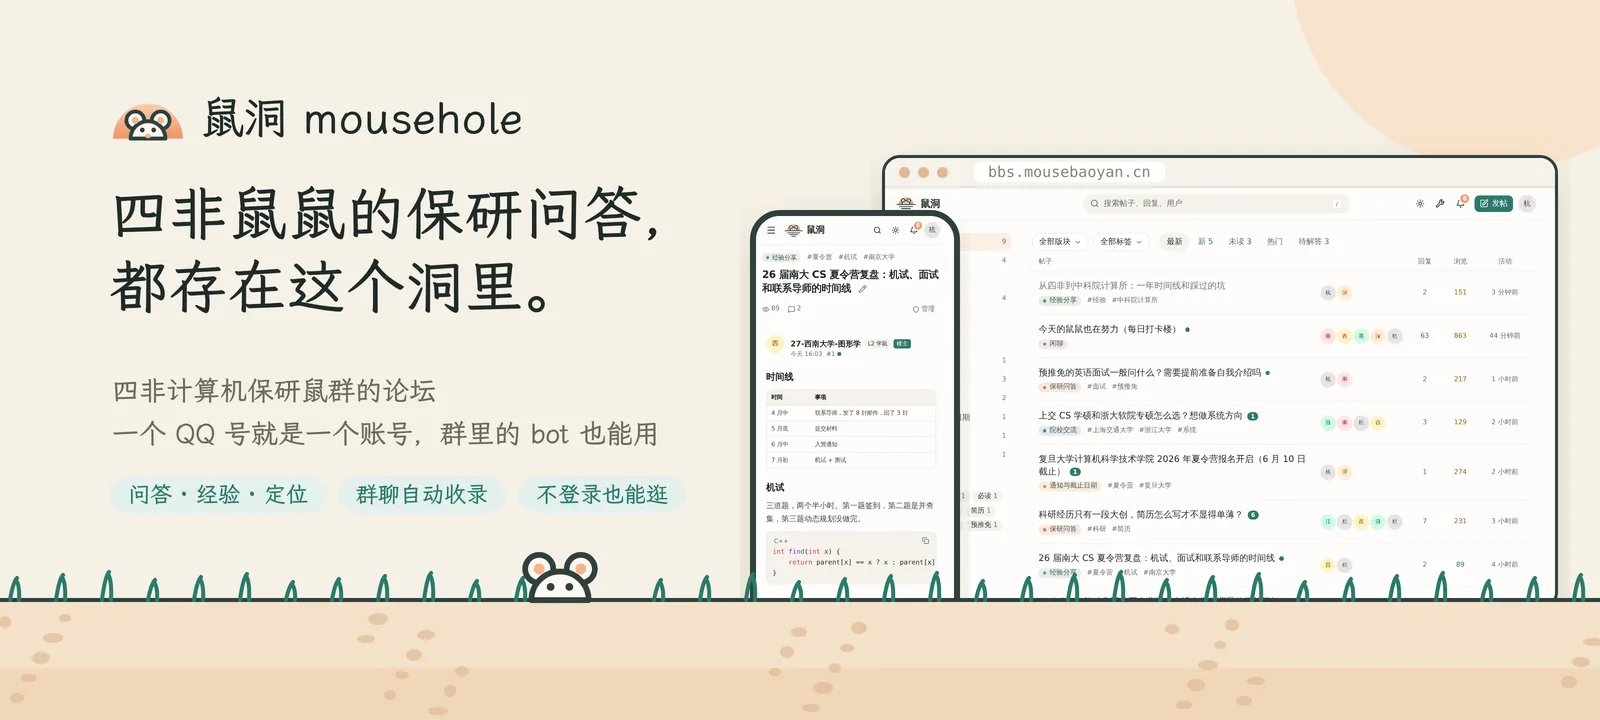
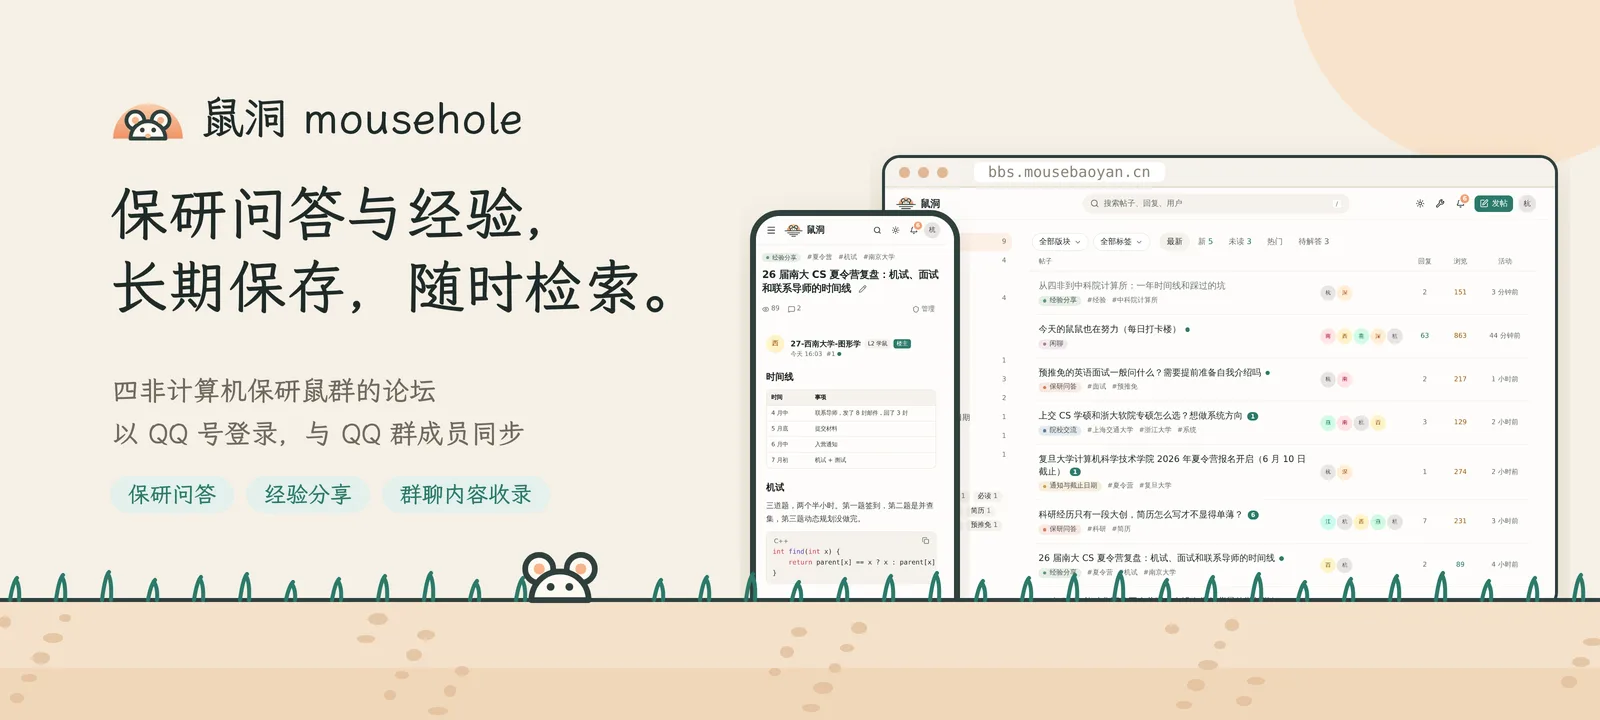
README 改用正式的文案 (#285)
原文案偏口语，"群的超集"这个说法也不准确：论坛内容并不回传到群里。

- 简介改为说明鼠洞解决的问题，"群的超集"改为"沉淀群聊内容"，并写明群里只推送提醒
- 功能表、截图说明、本地开发步骤和文档表的措辞改正式，去掉功能表里的表情符号
- 横幅的标题改为"保研问答与经验，长期保存，随时检索。"

diff --git a/README.md b/README.md
@@ -1,30 +1,30 @@
 <div align="center">
 
-<a href="https://bbs.mousebaoyan.cn"><img src="docs/images/banner.webp" alt="鼠洞：四非鼠鼠的保研问答，都存在这个洞里" width="100%"></a>
+<a href="https://bbs.mousebaoyan.cn"><img src="docs/images/banner.webp" alt="鼠洞：四非计算机保研鼠群的论坛" width="100%"></a>
 
 **四非计算机保研鼠群的论坛**
 
-一个 QQ 号就是一个账号，群里的 AstrBot 插件能做网页上能做的一切。
+以 QQ 号作为论坛账号，通过 AstrBot 插件与 QQ 群相连。
 
 [![CI](https://github.com/mousebaoyan/mousehole/actions/workflows/ci.yml/badge.svg)](https://github.com/mousebaoyan/mousehole/actions/workflows/ci.yml)
 [![版本](https://img.shields.io/github/v/tag/mousebaoyan/mousehole?label=%E7%89%88%E6%9C%AC&color=2b7a6b)](https://github.com/mousebaoyan/mousehole/tags)
 [![许可证](https://img.shields.io/badge/%E8%AE%B8%E5%8F%AF%E8%AF%81-MIT-ef9f70)](LICENSE)
 [![网站](https://img.shields.io/website?url=https%3A%2F%2Fbbs.mousebaoyan.cn%2Fhealthz&label=bbs.mousebaoyan.cn&up_message=%E5%9C%A8%E7%BA%BF&down_message=%E7%A6%BB%E7%BA%BF)](https://bbs.mousebaoyan.cn)
 
-[进入鼠洞](https://bbs.mousebaoyan.cn) · [鼠群官网](https://mousebaoyan.cn/) · [AstrBot 插件](https://github.com/mousebaoyan/astrbot_plugin_mousehole) · [设计文档](docs/design.md)
+[访问鼠洞](https://bbs.mousebaoyan.cn) · [鼠群官网](https://mousebaoyan.cn/) · [AstrBot 插件](https://github.com/mousebaoyan/astrbot_plugin_mousehole) · [设计文档](docs/design.md)
 
 </div>
 
-## 为什么有鼠洞
+## 简介
 
-保研群里每天都有好问题和好回答，但很快就被聊天刷上去，新人进群还得从头再问一遍。鼠洞把群里的内容沉淀成帖子，长期保留、能搜到，群被封也不会丢：
+QQ 群里的保研问答和经验分享很有价值，但容易被后续消息淹没，难以检索，群被封禁时还会一并丢失。鼠洞将这些内容整理成论坛帖子，长期保存，便于检索和查阅。
 
-- **群的超集**：群里正经的提问和回答，由插件用大模型整理后自动收录成帖子和回复；论坛上也能独立发帖。
-- **QQ 号即身份**：第一次登录就是注册，名字、头像、群头衔都和群里一致；退群自动冻结，回群自动恢复。
-- **bot 就是另一种客户端**：网页和插件走同一套 `/api/v1`，插件可以指定以哪位群友的身份操作，并通过事件流收到论坛上发生的事。
-- **轻量**：一个 Node 进程加 PostgreSQL，空载约 100MB 内存，在 25Mbps 的共享带宽上也跑得动。
+- **沉淀群聊内容**：插件借助大模型识别群内有价值的提问和回答，收录为论坛的帖子和回复；成员也可以直接在论坛发帖。论坛内容不回传到群内，群里只推送标题、链接等提醒。
+- **QQ 号即账号**：首次登录即完成注册，昵称、头像和群头衔与群内保持一致；成员退群后账号冻结，重新入群后自动恢复。
+- **网页与 bot 共用接口**：网页和插件调用同一套 `/api/v1`，插件可以指定以某位成员的身份操作，并通过事件流接收论坛上的动态。
+- **轻量部署**：单个 Node 进程加 PostgreSQL，空载内存约 100MB，适应 25Mbps 的共享出口带宽。
 
-## 看看样子
+## 界面预览
 
 <picture>
   <source media="(prefers-color-scheme: dark)" srcset="docs/images/home-dark.webp">
@@ -55,34 +55,34 @@
 <p align="center">
   <picture>
     <source media="(prefers-color-scheme: dark)" srcset="docs/images/phone-home-dark.webp">
-    <img src="docs/images/phone-home-light.webp" alt="手机上的首页" width="30%">
+    <img src="docs/images/phone-home-light.webp" alt="手机端首页" width="30%">
   </picture>
   &nbsp;
   <picture>
     <source media="(prefers-color-scheme: dark)" srcset="docs/images/phone-thread-dark.webp">
-    <img src="docs/images/phone-thread-light.webp" alt="手机上的帖子页" width="30%">
+    <img src="docs/images/phone-thread-light.webp" alt="手机端帖子页" width="30%">
   </picture>
   &nbsp;
   <picture>
     <source media="(prefers-color-scheme: dark)" srcset="docs/images/phone-profile-dark.webp">
-    <img src="docs/images/phone-profile-light.webp" alt="手机上的个人主页" width="30%">
+    <img src="docs/images/phone-profile-light.webp" alt="手机端个人主页" width="30%">
   </picture>
 </p>
 
-<p align="center"><sub>截图用的是 <code>pnpm mock-bot seed</code> 生成的演示数据；跟随 GitHub 的浅色、深色主题切换。</sub></p>
+<p align="center"><sub>截图使用 <code>pnpm mock-bot seed</code> 生成的演示数据，并随 GitHub 的浅色、深色主题切换。</sub></p>
 
 ## 功能
 
-| 方面 | 能做什么 |
+| 类别 | 内容 |
 | --- | --- |
-| 💬 **讨论与问答** | 版块和标签，楼中楼回复，采纳答案，表情回应，收藏和关注；Markdown 正文，图片自动转 WebP |
-| 🎯 **保研特色** | 保研定位帖（填背景、大家给各校投票），投票帖，可复核的抽奖帖，匿名发帖和回复 |
-| 🤖 **和 QQ 群打通** | 群成员同步、冻结与恢复，经 bot 的口令和链接登录，群聊自动收录，新回答提醒和开奖结果发回群里 |
-| 🏅 **成长与装扮** | L0–L5 等级，徽章，鼠币签到和兑换，头像框、背景、主题色等个性化 |
-| 🔎 **找得到** | 中文全文搜索，相似问题，AI 整理的帖子总结 |
-| 🛡 **管理** | 举报、禁言和封禁，审核状态，操作日志，后台的数据页和站点设置 |
+| **讨论与问答** | 版块和标签，楼中楼回复，采纳答案，表情回应，收藏和关注；Markdown 正文，图片自动转为 WebP |
+| **保研场景** | 保研定位帖（填写背景，由成员对各目标院校投票），投票帖，可复核的抽奖帖，匿名发帖和回复 |
+| **QQ 群集成** | 群成员同步、冻结与恢复，经 bot 的口令和链接登录，群聊内容收录，新回答提醒和开奖结果推送到群内 |
+| **等级与激励** | L0–L5 等级，徽章，鼠币的签到与兑换，头像框、背景、主题色等个性化设置 |
+| **搜索与整理** | 中文全文搜索，相似问题推荐，AI 生成的帖子总结 |
+| **管理** | 举报、禁言和封禁，审核状态，操作日志，后台数据统计和站点设置 |
 
-每项的细节见[总体设计 §8](docs/design.md#8-内容)，进度见[路线图](docs/design.md#14-路线图)。
+各项功能的详细设计见[总体设计 §8](docs/design.md#8-内容)，开发进度见[路线图](docs/design.md#14-路线图)。
 
 ## 架构
 
@@ -99,28 +99,28 @@ flowchart LR
   api --> db[("PostgreSQL 18")]
 ```
 
-页面在进程内调用同一套接口，所以网页能做的，bot 都能做。详见[总体设计 §4](docs/design.md#4-架构)。
+页面在服务端渲染时于进程内调用同一套接口，因此网页提供的功能，bot 均可使用。详见[总体设计 §4](docs/design.md#4-架构)。
 
 **技术栈**：React 19 · React Router 8 · Hono · Zod 4 · TypeScript 7 · Tailwind CSS 4 · shadcn/ui（Base UI）· PostgreSQL 18 + Kysely · Vitest · Playwright · Docker。选型依据见[总体设计 §5](docs/design.md#5-技术选型)。
 
-## 本地跑起来
+## 本地开发
 
 需要 Node.js 26、pnpm 和 Docker。
 
 ```sh
 cp .env.example .env
-docker compose up -d          # 本地 PostgreSQL
+docker compose up -d          # 启动本地 PostgreSQL
 pnpm install
-pnpm dev                      # 启动时自动执行迁移
+pnpm dev                      # 启动开发服务器，并自动执行迁移
 
-# 另开一个终端，造一个演示群和一些帖子
-pnpm bootstrap --owner        # 站长的一次性登录链接
-pnpm mock-bot setup           # 建 bot token，推送 30 个假群友
-pnpm mock-bot seed            # 建演示用的版块、标签和帖子
-pnpm mock-bot link 910000002  # 以一位演示群友的身份登录
+# 在另一个终端中生成演示数据
+pnpm bootstrap --owner        # 生成站长的一次性登录链接
+pnpm mock-bot setup           # 创建 bot token，推送 30 名演示成员
+pnpm mock-bot seed            # 创建演示用的版块、标签和帖子
+pnpm mock-bot link 910000002  # 生成一名演示成员的登录链接
 ```
 
-提交前运行 `pnpm check`（类型检查、lint、格式和测试）。其余命令见 [AGENTS.md](AGENTS.md#命令)。
+提交前请运行 `pnpm check`（类型检查、lint、格式检查和测试）。其他命令见 [AGENTS.md](AGENTS.md#命令)。
 
 ## 文档
 
@@ -130,11 +130,11 @@ pnpm mock-bot link 910000002  # 以一位演示群友的身份登录
 | [数据表](docs/data-model.md) | PostgreSQL 表结构、索引和查询约定 |
 | [接口](docs/api.md) | 接口清单、bot 代操作、幂等、成员同步、事件流、登录与部署流程 |
 | [开发约定](docs/development.md) | 目录、模块划分和分层，接口、数据库、前端、测试的写法，以及术语 |
-| [AGENTS.md](AGENTS.md) | 参与开发的规矩：文档索引、写代码和测试的要求，分支、提交和 PR 的约定，人和编码 agent 都适用 |
+| [AGENTS.md](AGENTS.md) | 开发规范：文档索引、代码和测试要求，分支、提交和 PR 约定，适用于开发者和编码 agent |
 
 ## 相关项目
 
-- [astrbot_plugin_mousehole](https://github.com/mousebaoyan/astrbot_plugin_mousehole)：群里的 AstrBot 插件，负责成员同步、私聊登录和自动收录
+- [astrbot_plugin_mousehole](https://github.com/mousebaoyan/astrbot_plugin_mousehole)：鼠洞的 AstrBot 插件，负责成员同步、私聊登录和群聊内容收录
 - [鼠群官网](https://mousebaoyan.cn/)（[源码](https://github.com/mousebaoyan/mousebaoyan.github.io)）
 
 ## 许可证
